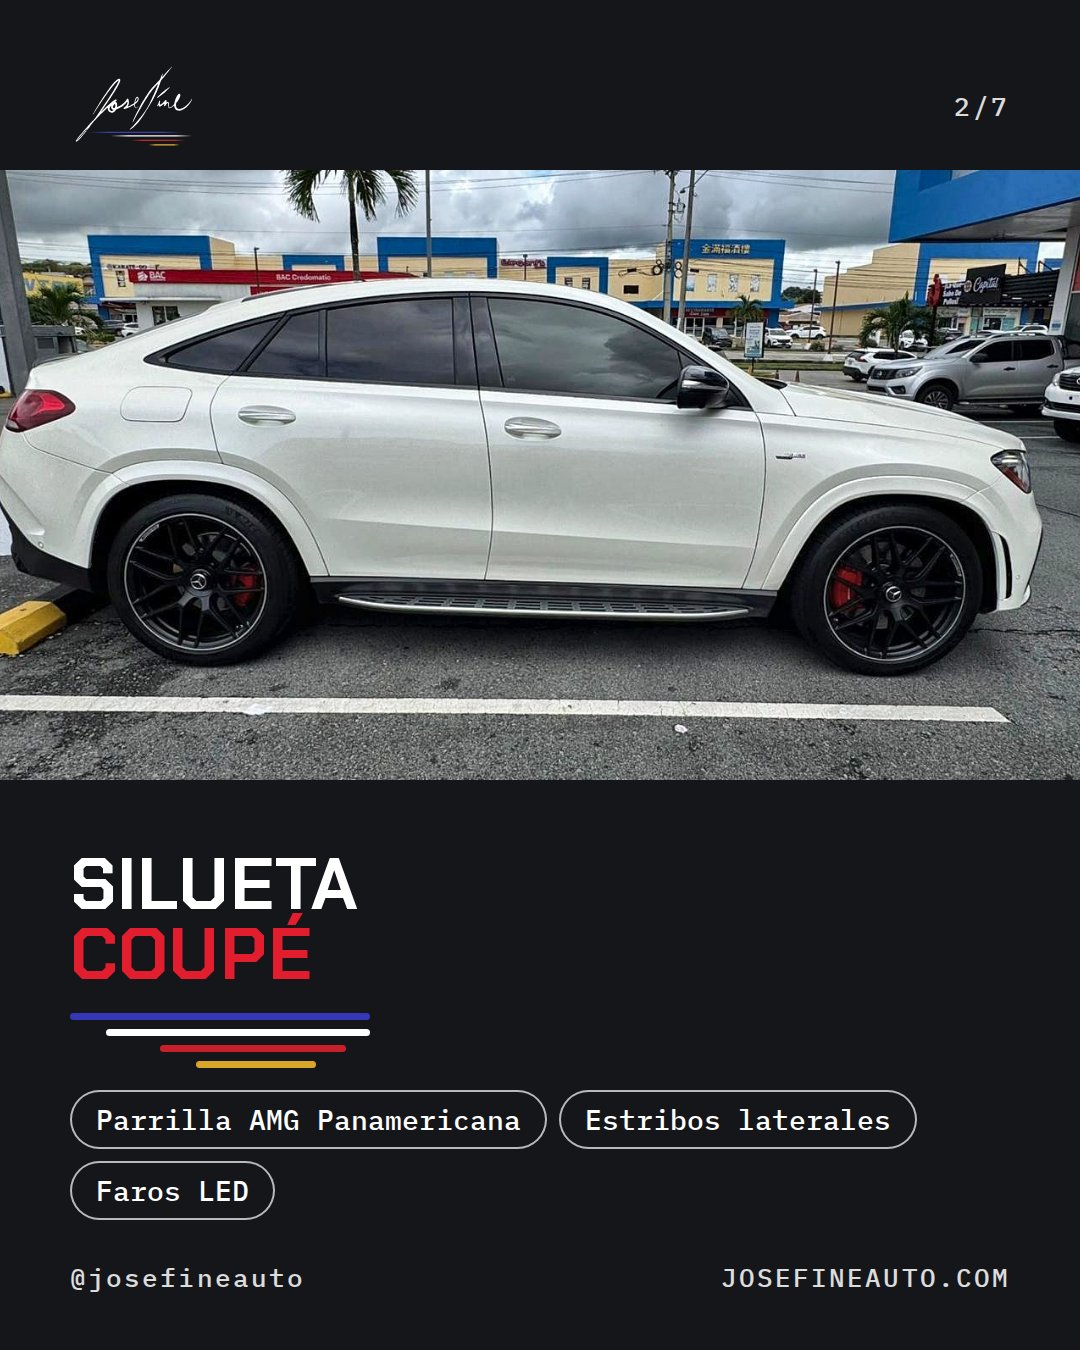
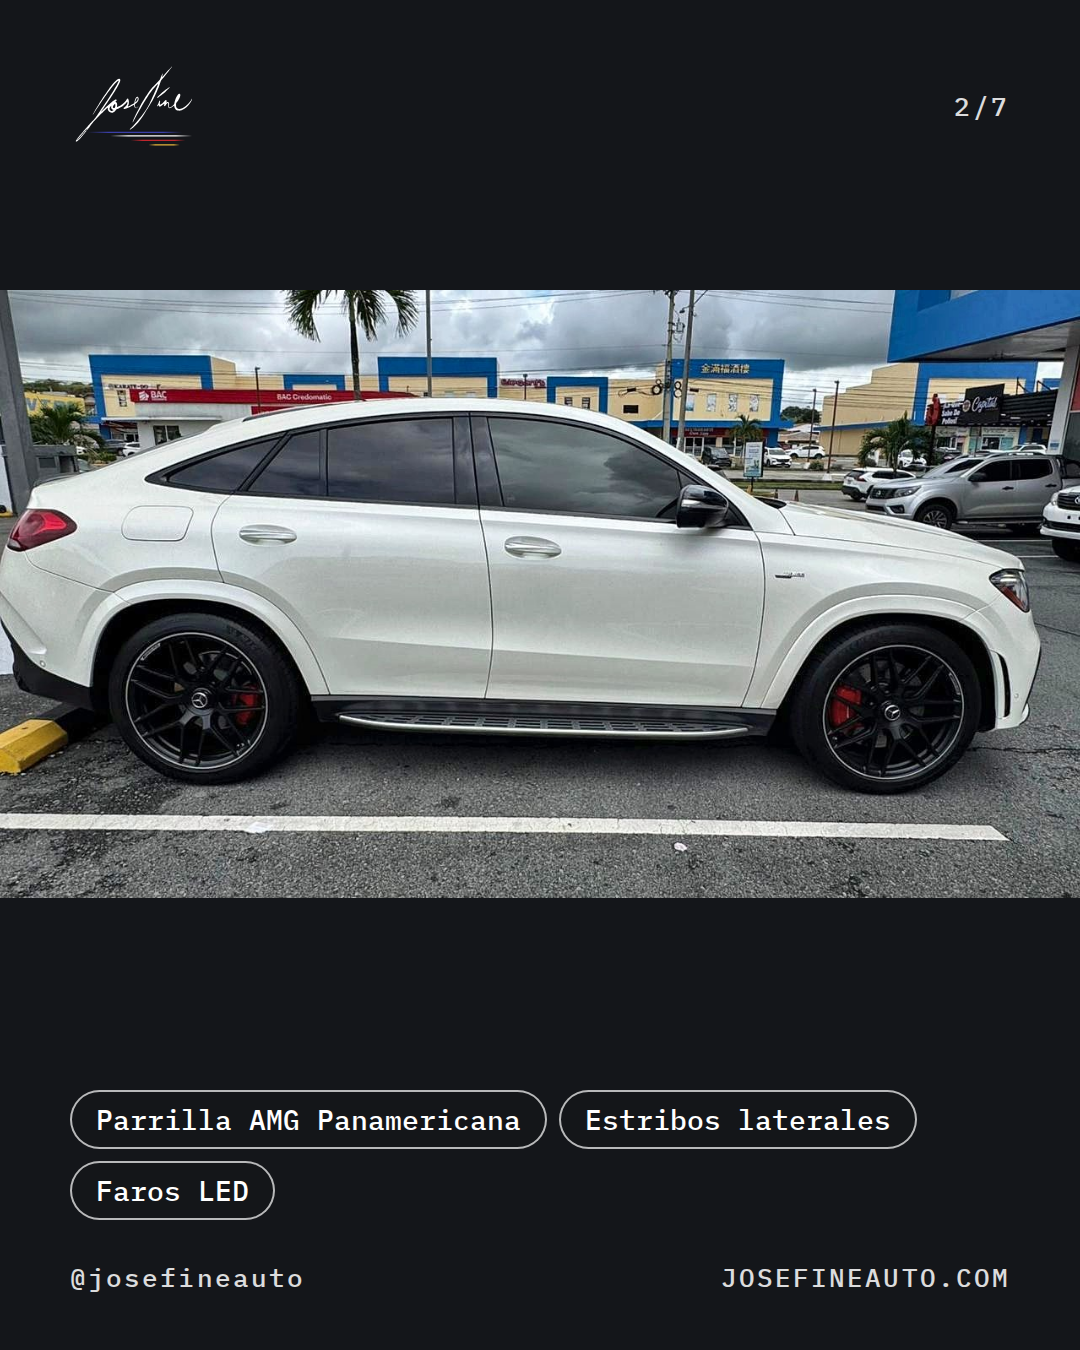
GLE 53: sin títulos en las láminas 2, 3 y 4; foto completa en la lámina 2
Claude-Session: https://claude.ai/code/session_01Waia73eHNWtSrif5AzmwHD

diff --git a/herramientas/build/generar-post-gle53.js b/herramientas/build/generar-post-gle53.js
@@ -34,7 +34,7 @@ em{font-style:normal;color:#e11d2e}
 .chips span{font-family:'IBM Plex Mono',monospace;font-size:28px;border:2px solid rgba(255,255,255,.7);border-radius:99px;padding:9px 24px;background:rgba(20,22,26,.35)}
 .dos{position:absolute;left:0;right:0;top:0;height:1000px;display:grid;grid-template-columns:1fr 1fr;gap:8px}
 .dos div{background-size:cover;background-position:center}
-.ancha{position:absolute;left:0;right:0;top:170px;height:610px;background-size:cover;background-position:center}
+.ancha{position:absolute;left:0;right:0;top:290px;height:608px;background-size:cover;background-position:center}
 .cta{background:#e11d2e}
 .cta .f span:nth-child(3){background:#14161a}.cta em{color:#14161a}
 .cta .txt{bottom:auto;top:260px;gap:34px}
@@ -52,11 +52,11 @@ const LAMINAS = [
     <div class="txt"><span class="tag">En venta</span><h1>Mercedes-AMG<br><em>GLE 53</em> Coupé</h1>${F}
     <div class="chips"><span>2021</span><span>56,000 km</span><span>Automático</span><span>Blanco</span></div></div>${pie}</div>`,
   `<div class="s"><div class="ancha" style="background-image:url('${foto(3)}')"></div>${top(`2/${T}`)}
-    <div class="txt"><h2>Silueta<br><em>coupé</em></h2>${F}<div class="chips"><span>Parrilla AMG Panamericana</span><span>Estribos laterales</span><span>Faros LED</span></div></div>${pie}</div>`,
+    <div class="txt"><div class="chips"><span>Parrilla AMG Panamericana</span><span>Estribos laterales</span><span>Faros LED</span></div></div>${pie}</div>`,
   `<div class="s"><div class="dos"><div style="background-image:url('${foto(4)}')"></div><div style="background-image:url('${foto(5)}')"></div></div><div class="velo"></div>${top(`3/${T}`)}
-    <div class="txt"><h2>Detrás,<br><em>pura AMG</em></h2><div class="chips"><span>4 salidas de escape</span><span>Alerón forrado en negro</span></div></div>${pie}</div>`,
+    <div class="txt"><div class="chips"><span>4 salidas de escape</span><span>Alerón forrado en negro</span></div></div>${pie}</div>`,
   `<div class="s"><div class="dos"><div style="background-image:url('${foto(6)}')"></div><div style="background-image:url('${foto(7)}')"></div></div><div class="velo"></div>${top(`4/${T}`)}
-    <div class="txt"><h2>Cabina<br><em>AMG</em></h2><div class="chips"><span>Volante AMG en Alcantara</span><span>Interior negro</span><span>Pedales deportivos</span></div></div>${pie}</div>`,
+    <div class="txt"><div class="chips"><span>Volante AMG en Alcantara</span><span>Interior negro</span><span>Pedales deportivos</span></div></div>${pie}</div>`,
   `<div class="s"><div class="dos"><div style="background-image:url('${foto(8)}')"></div><div style="background-image:url('${foto(9)}')"></div></div><div class="velo"></div>${top(`5/${T}`)}
     <div class="txt"><h2>Rines AMG<br><em>22"</em></h2><div class="chips"><span>Michelin nuevas</span><span>Cálipers pintados en rojo</span></div></div>${pie}</div>`,
   `<div class="s"><div class="bg" style="background-image:url('${foto(2)}');background-position:center 40%"></div><div class="velo"></div>${top(`6/${T}`)}
